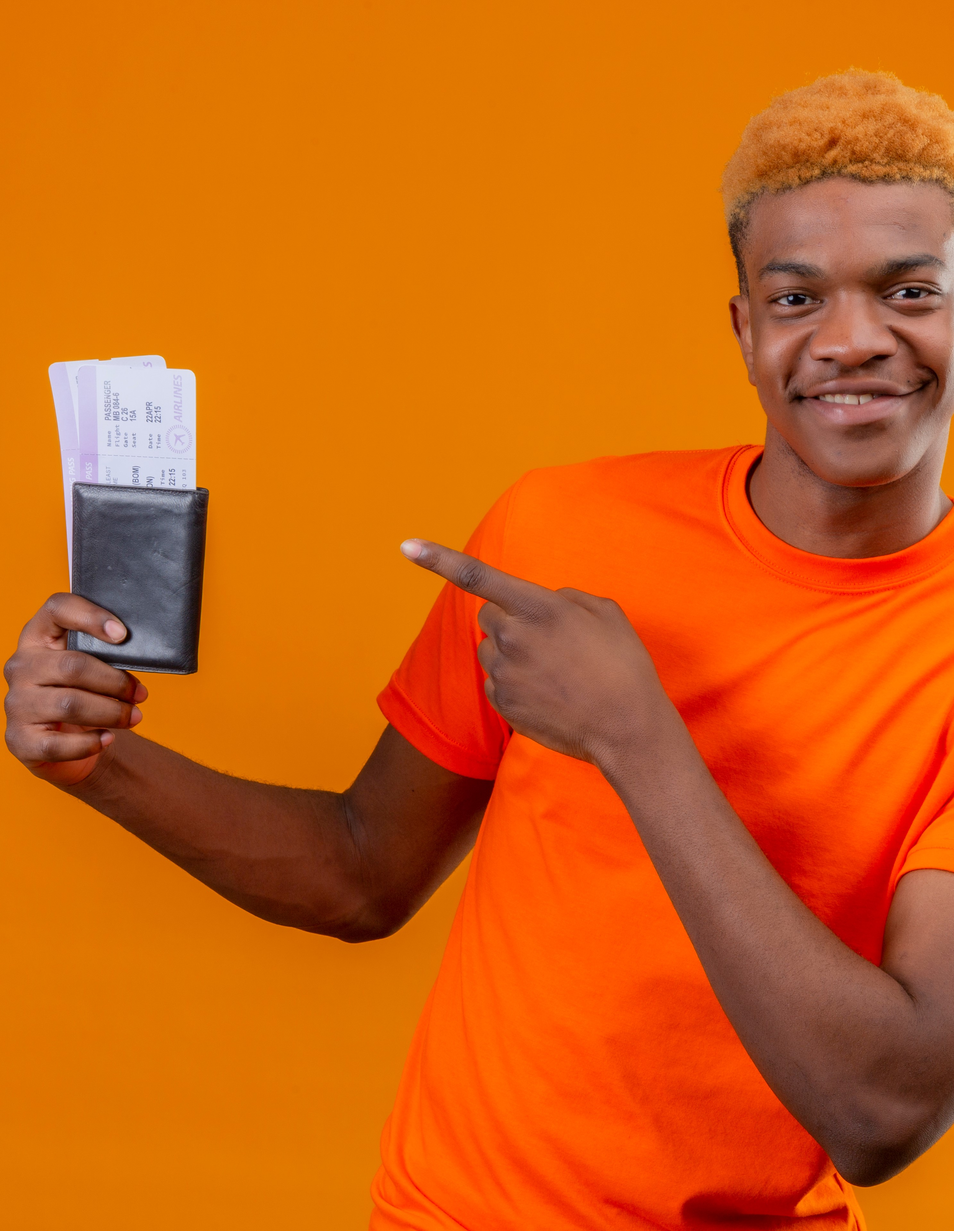
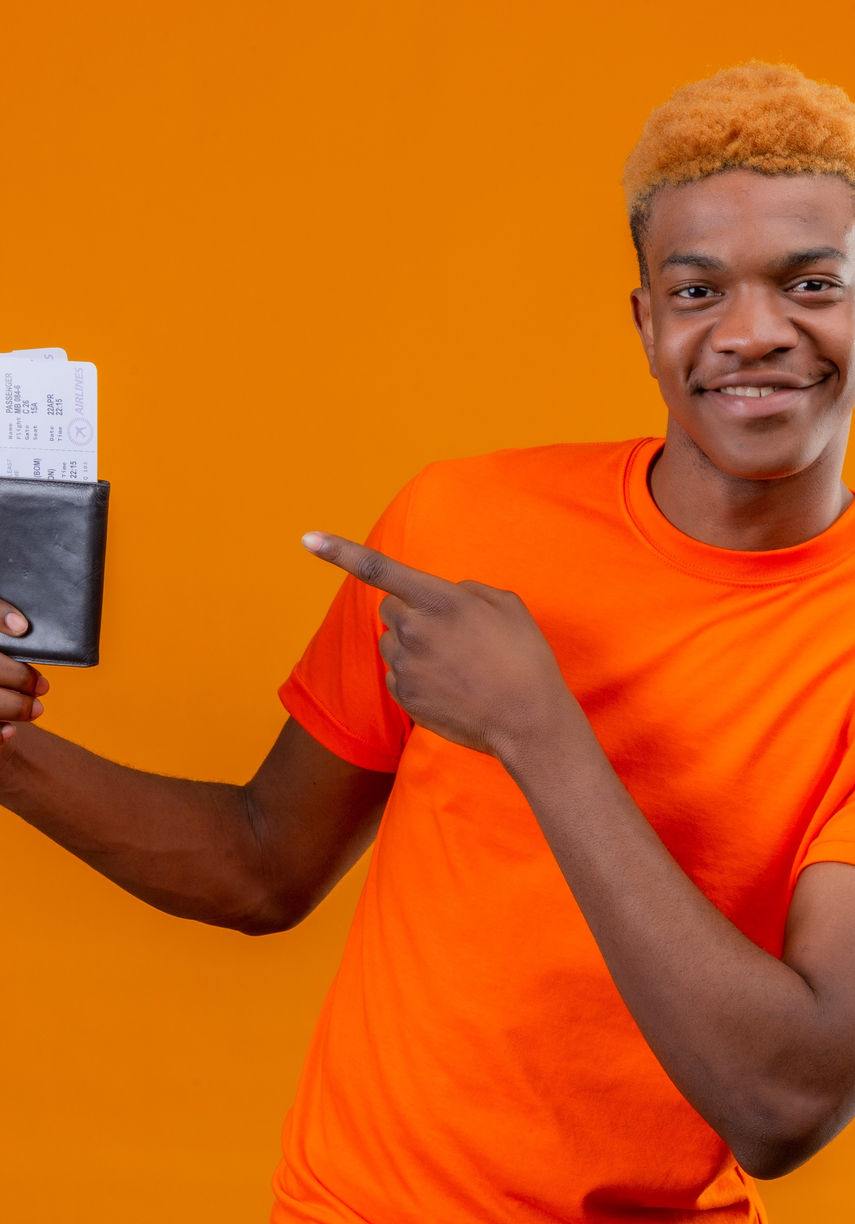
Retoques de layout e responsividade

diff --git a/src/components/layout/sessaoServicos/stylesServicos.jsx b/src/components/layout/sessaoServicos/stylesServicos.jsx
@@ -49,6 +49,8 @@ export const content = styled.div`
     @media screen and (max-width: 768px){
         p{
             margin: .5rem 0;
+            text-align: center;
+            width: 90%;
         }
     }    
     
@@ -113,21 +115,6 @@ export const area1 = styled.div`
         }
     } 
 
-  /*   @media screen and (max-width: 1024px) {
-        h1{
-            font-size: 1.2rem;
-        }
-        
-        p{
-            font-size: .9rem;
-        }
-
-        a{
-            font-size: .85rem;
-        }
-    }
- */
-
     @media screen and (max-width:768px) {
         height: 100%;
     }
@@ -164,14 +151,14 @@ export const contImage = styled.div`
     img{
         width: 100%;
         height: 100%;
-        object-position: top;
         object-fit: cover;
         opacity: .6;
     }
 
    
     @media screen and (max-width: 600px){
-        height: 30rem;
+        width: 100%;
+        height: 28rem;
     }
 `
 
@@ -255,7 +242,7 @@ export const containerImage3 = styled.div`
 
     @media screen and (max-width: 600px){
         width: 100%;
-        height: 30rem;
+        height: 28rem;
     }
 `
 

diff --git a/src/components/layout/banner/stylesBanner.jsx b/src/components/layout/banner/stylesBanner.jsx
@@ -45,15 +45,20 @@ export const ImageBanner2 = styled.div`
     background-color: rgb(0, 0, 0);
     overflow: hidden;
     width: 100%;
-    height: 90vh;
-    @media screen and (max-width: 600px){
-        display: block;
-    }
+    height: 500px;
 
     img{
         object-fit: contain;
         opacity: .4;
     }
+    @media screen and (max-width: 600px){
+        display: block;
+    }
+
+    @media screen and (max-width: 320px){
+        height: 420px;
+    }
+
 `;
 
 export const Imagem=styled.img`

diff --git a/src/components/layout/quem_somos/styledQuemSomos.jsx b/src/components/layout/quem_somos/styledQuemSomos.jsx
@@ -40,6 +40,10 @@ export const imagem = styled.div`
     @media screen and (max-width: 600px){
         width: 20rem;
         height: 20rem;
+        img{
+            width: 100%;
+            height: 100%;
+        }
     }
 `
 
